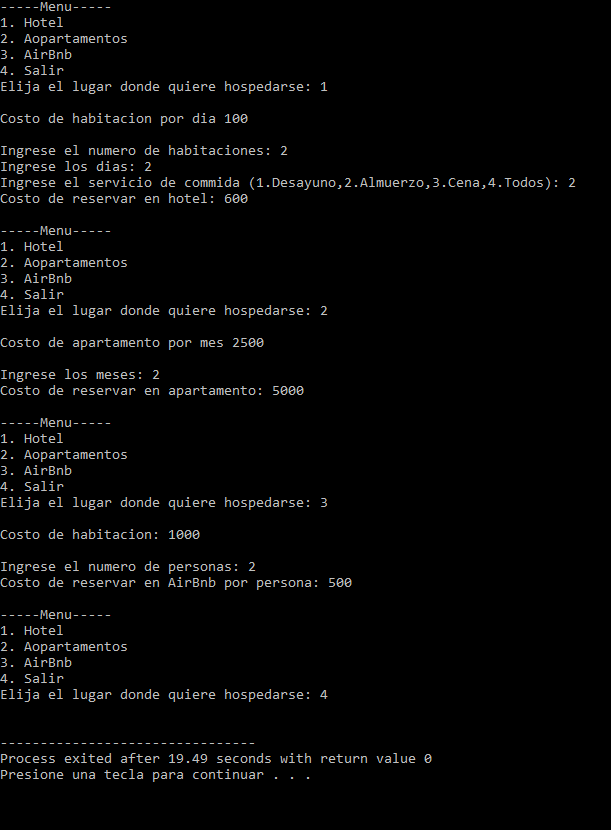
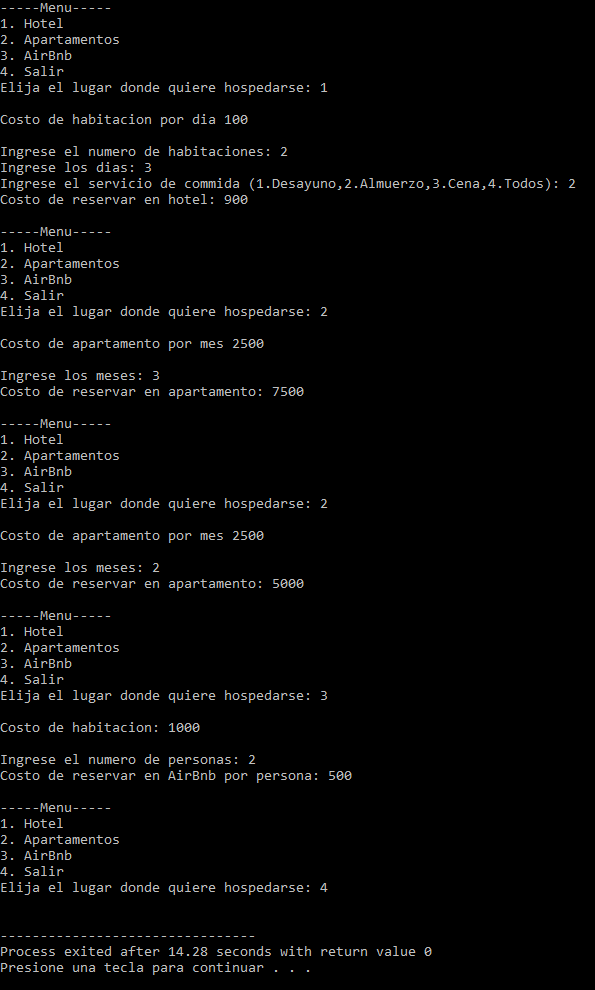
Tarea6

Changed region(s): [[0.0, 0.0, 0.9378, 0.994], [0.5445, 0.6928, 0.5748, 0.7229]]

diff --git a/Tarea6/herencia.cpp b/Tarea6/herencia.cpp
@@ -83,7 +83,7 @@ int main(){
     while(op!=4){
     cout<<"-----Menu-----"<<endl;
     cout<<"1. Hotel"<<endl;
-    cout<<"2. Aopartamentos"<<endl;
+    cout<<"2. Apartamentos"<<endl;
     cout<<"3. AirBnb"<<endl;
     cout<<"4. Salir"<<endl;
     cout<<"Elija el lugar donde quiere hospedarse: ";
